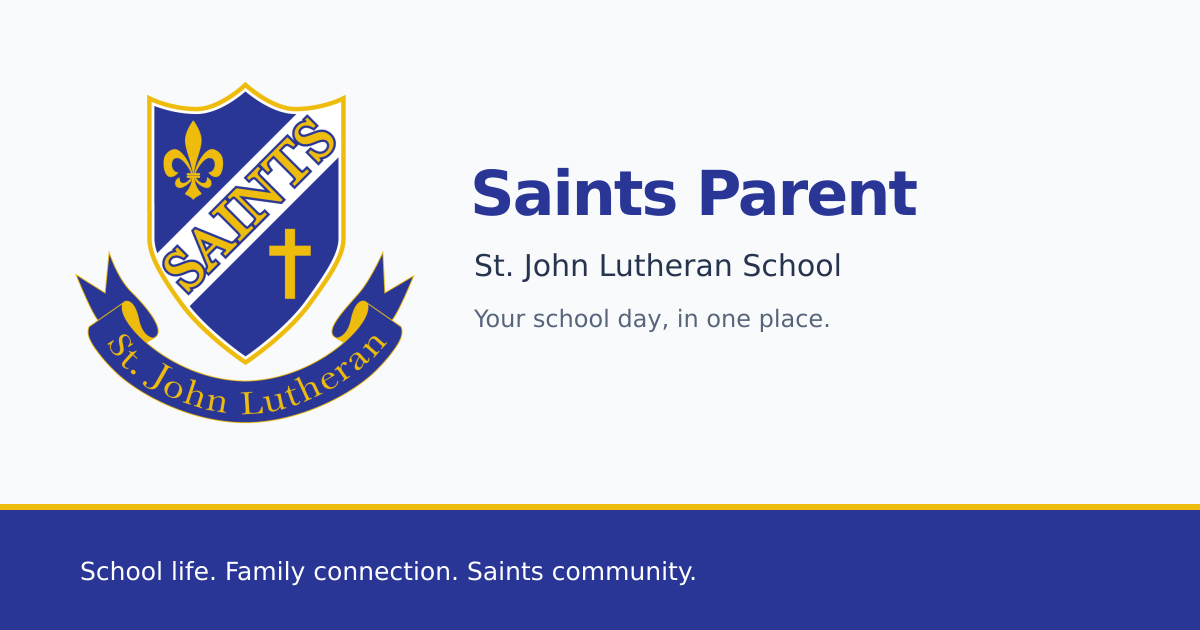
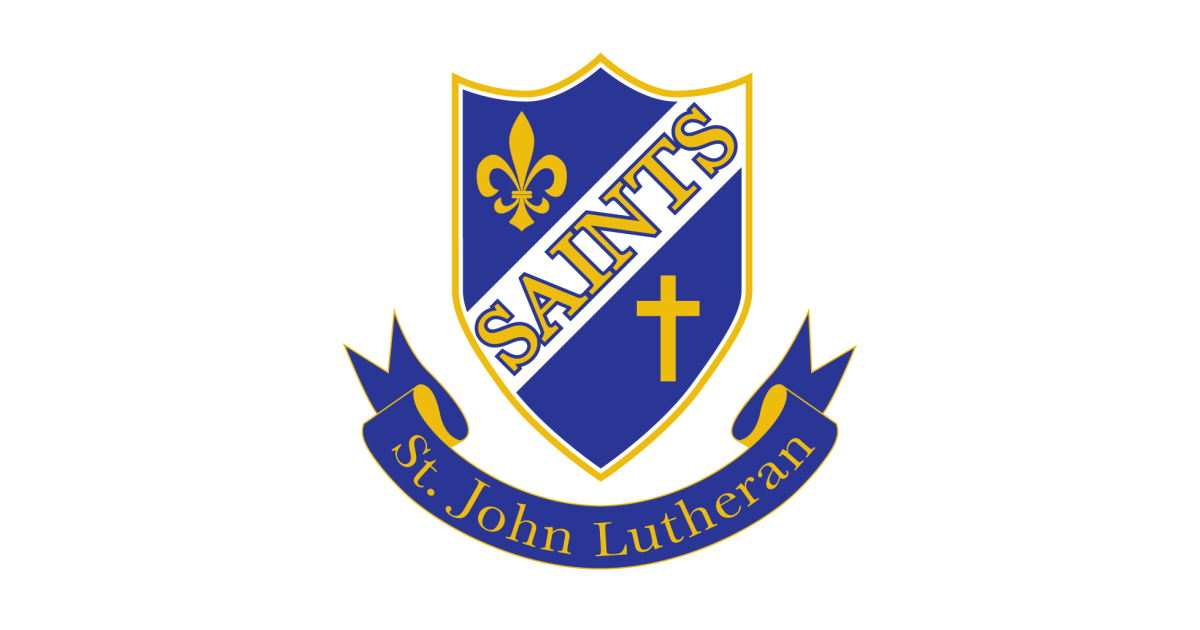
Center crest in share preview and remove duplicate page-top navigation

diff --git a/app/athletics/page.tsx b/app/athletics/page.tsx
@@ -6,7 +6,7 @@ import styles from '../school-info.module.css';
 import athleticStyles from './athletics.module.css';
 export const metadata = {title:'Saints athletics'};
 export default function Athletics(){ return <>
-  <Link href="/resources" className={styles.back}>All resources</Link>
+  
   <Heading eyebrow="GO SAINTS" title="Saints athletics">St. John teams, eligibility forms and athletics contacts.</Heading>
   <section aria-labelledby="sports-heading" className={styles.section}><h2 id="sports-heading">Find a program</h2><p>St. John sports by season.</p><div className={athleticStyles.seasons}>{sportsSeasons.map(({season,sports})=><details key={season} className={athleticStyles.season}><summary><span>{season}</span><span className={athleticStyles.count}>{sports.length} programs</span></summary><ul>{sports.map(sport=><li key={sport}>{sport}</li>)}</ul></details>)}</div></section>
   <section id="participation-forms" className={styles.section}><h2>Before your student participates</h2><p>Before conditioning, tryouts or the first practice:</p><ol className={styles.steps}><li>Complete school registration and enrollment, and pay registration fees.</li><li>Submit eligibility paperwork to the athletic director.</li></ol><div className={styles.forms}>{athleticsForms.map(form=><ExternalLink key={form.url} href={form.url}>{form.title}<small>PDF</small></ExternalLink>)}</div><p>New high school students also need GA4. Ask athletics for current GA4 forms and concussion and cardiac course instructions.</p></section>

diff --git a/app/staff/page.tsx b/app/staff/page.tsx
@@ -1,4 +1,3 @@
-import Link from 'next/link';
 import {Suspense} from 'react';
 import {Heading} from '../components';
 import {school} from '../school-data.mjs';
@@ -7,7 +6,7 @@ import {staffDirectory,staffDepartments} from './staff-data.mjs';
 import styles from './staff.module.css';
 export const metadata={title:'Staff directory'};
 export default function StaffDirectory(){return <div className={styles.page}>
-  <Link href="/updates" className={styles.back}>Contacts</Link>
+  
   <Heading eyebrow="PEOPLE AT ST. JOHN" title="Staff directory">Find a name, a role, or the right person to ask.</Heading>
   <Suspense fallback={<p role="status">Loading staff directory…</p>}><StaffView staff={staffDirectory} departments={staffDepartments}/></Suspense>
   <aside className={styles.office}><div><h2>Not sure who to contact?</h2><p>The school office can help you find the right person.</p></div><div className={styles.officeActions}><a href={`mailto:${school.officeEmail}`}>Email the school office</a><a href={school.phone}>Call {school.phoneDisplay}</a></div></aside>

diff --git a/app/dress-code/page.tsx b/app/dress-code/page.tsx
@@ -1,11 +1,10 @@
-import Link from 'next/link';
 import {Heading, ExternalLink} from '../components';
 import {school,resources} from '../school-data.mjs';
 import {dressCodeRules, publicInfoSources} from '../public-info-data.mjs';
 import styles from '../school-info.module.css';
 export const metadata = {title:'Dress code'};
 export default function DressCode(){return <>
-  <Link href="/resources" className={styles.back}>All resources</Link>
+  
   <Heading eyebrow="READY FOR SCHOOL" title="Dress code">An everyday checklist from the school’s published policy.</Heading>
   <ul className={styles.rules}>{dressCodeRules.map(rule=><li key={rule.title}><h2>{rule.title}</h2><p>{rule.detail}</p></li>)}</ul>
   <section className={styles.contact}><div><h2>Not sure what’s allowed?</h2><p>Check with the office before buying.</p></div><a className="text-link" href={school.phone}>Call {school.phoneDisplay}</a></section>

diff --git a/app/lunch/page.tsx b/app/lunch/page.tsx
@@ -1,4 +1,3 @@
-import Link from 'next/link';
 import {Heading,ExternalLink,Icon} from '../components';
 import {resources,school} from '../school-data.mjs';
 import styles from './lunch.module.css';
@@ -8,7 +7,7 @@ export default function Lunch(){
  const information=resources.find(resource=>resource.id==='meal-info')!;
  const account=resources.find(resource=>resource.id==='lunch-account')!;
  return <>
-  <Link href="/resources" className="text-link lunch-back">All resources</Link>
+  
   <Heading eyebrow="LUNCH AT SCHOOL" title="What’s for lunch?">St. John menus, PaySchools and Maschio’s food service.</Heading>
   <section className={styles.menu}>
    <div className={styles.menuTitle}><Icon name="lunch"/><div><h2>School lunch menu</h2><p>View the menu on Nutrislice.</p></div></div>

diff --git a/app/faq/page.tsx b/app/faq/page.tsx
@@ -1,5 +1,4 @@
-import Link from 'next/link';
 import {Heading} from '../components';
 import FaqExplorer from './faq-explorer';
 export const metadata={title:'Parent FAQ'};
-export default function FaqPage(){return <><Link className="text-link" href="/resources">Resources</Link><Heading eyebrow="PARENT HELP" title="Frequently asked questions">Quick answers for school life.</Heading><FaqExplorer/></>}
+export default function FaqPage(){return <><Heading eyebrow="PARENT HELP" title="Frequently asked questions">Quick answers for school life.</Heading><FaqExplorer/></>}

diff --git a/docs/visual-assets.md b/docs/visual-assets.md
@@ -31,3 +31,4 @@ The Saints gym and school library photographs now also identify their correspond
 
 ### Link-sharing and installation identity
 `public/brand/saints-parent-share.png` is a 1200×630 original branded layout using the exact existing school crest, royal blue, gold, and readable parent-app title. Apple touch icon180×180, standard app icons192×192/512×512, and favicon32×32 reuse that same unmodified crest on an opaque white canvas. Reproducible vector layout in `scripts/build-brand-assets.cjs`, rasterized via Sharp; the crest is not AI-generated. Assets visually inspected at full size and180px. Apple/iMessage cache and actual home-screen appearance require device verification, not implied by asset generation.
+- Share-card refinement: owner requested the school logo centered, not a photograph or side-by-side title. The1200×630 card now contains only the exact crest centered on white, with no additional caption. App icon assets unchanged.
